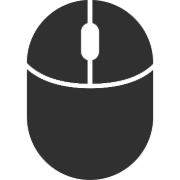
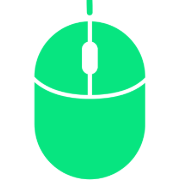
hero ammends

diff --git a/styles.css b/styles.css
@@ -871,17 +871,24 @@ footer {
     }
 } 
 
-/* Update WhatsApp button color to match brand green */
+/* Update WhatsApp button colors */
 .hero-cta .btn-success,
 .whatsapp-button {
-    background-color: #10e47f;
-    border-color: #10e47f;
+    background-color: rgba(16, 228, 127, 0.7); /* Reduced opacity further */
+    border-color: rgba(16, 228, 127, 0.7);
 }
 
 .hero-cta .btn-success:hover,
 .whatsapp-button:hover {
-    background-color: #2ff591;
-    border-color: #2ff591;
+    background-color: rgba(16, 228, 127, 0.9); /* Slightly more opaque on hover */
+    border-color: rgba(16, 228, 127, 0.9);
+    transform: translateY(-2px);
+    box-shadow: 0 4px 12px rgba(16, 228, 127, 0.15);
+}
+
+/* Footer WhatsApp icon */
+.footer-contact .fa-whatsapp {
+    color: rgba(16, 228, 127, 0.7);
 }
 
 /* Update feature icons color */
@@ -911,20 +918,20 @@ h1, h2, h3, h4, h5, h6 {
 
 /* Replace stat cards with hero image styling */
 .hero-image-wrapper {
-    position: relative;
-    height: 100%;
     display: flex;
+    justify-content: center;
     align-items: center;
-    justify-content: flex-end;
-    background: transparent;
 }
 
 .hero-image {
     max-width: 100%;
     height: auto;
-    border-radius: 1rem;
-    box-shadow: 0 10px 30px rgba(0, 0, 0, 0.1);
-    mix-blend-mode: multiply;
+}
+
+/* Remove any existing hero image styles */
+.hero-image-wrapper::before,
+.hero-image-wrapper::after {
+    display: none;
 }
 
 /* Update responsive styling */

diff --git a/index.html b/index.html
@@ -52,7 +52,7 @@
     <header class="bg-primary text-white py-5">
         <div class="container">
             <div class="row align-items-center">
-                <div class="col-lg-7">
+                <div class="col-lg-6">
                     <h1 class="display-4 mb-4">Tech Support at Your Doorstep in Clifton</h1>
                     <div class="hero-features mb-4">
                         <p class="lead mb-4">Professional tech help when you need it. From computer repairs to WiFi
@@ -76,9 +76,9 @@
                         </a>
                     </div>
                 </div>
-                <div class="col-lg-5 d-none d-lg-block">
+                <div class="col-lg-6 d-none d-lg-block">
                     <div class="hero-image-wrapper">
-                        <img src="EnviroTech logo.png" alt="Tech Support Services" class="hero-image">
+                        <img src="hero.png" alt="Tech Support Services" class="hero-image">
                     </div>
                 </div>
             </div>
